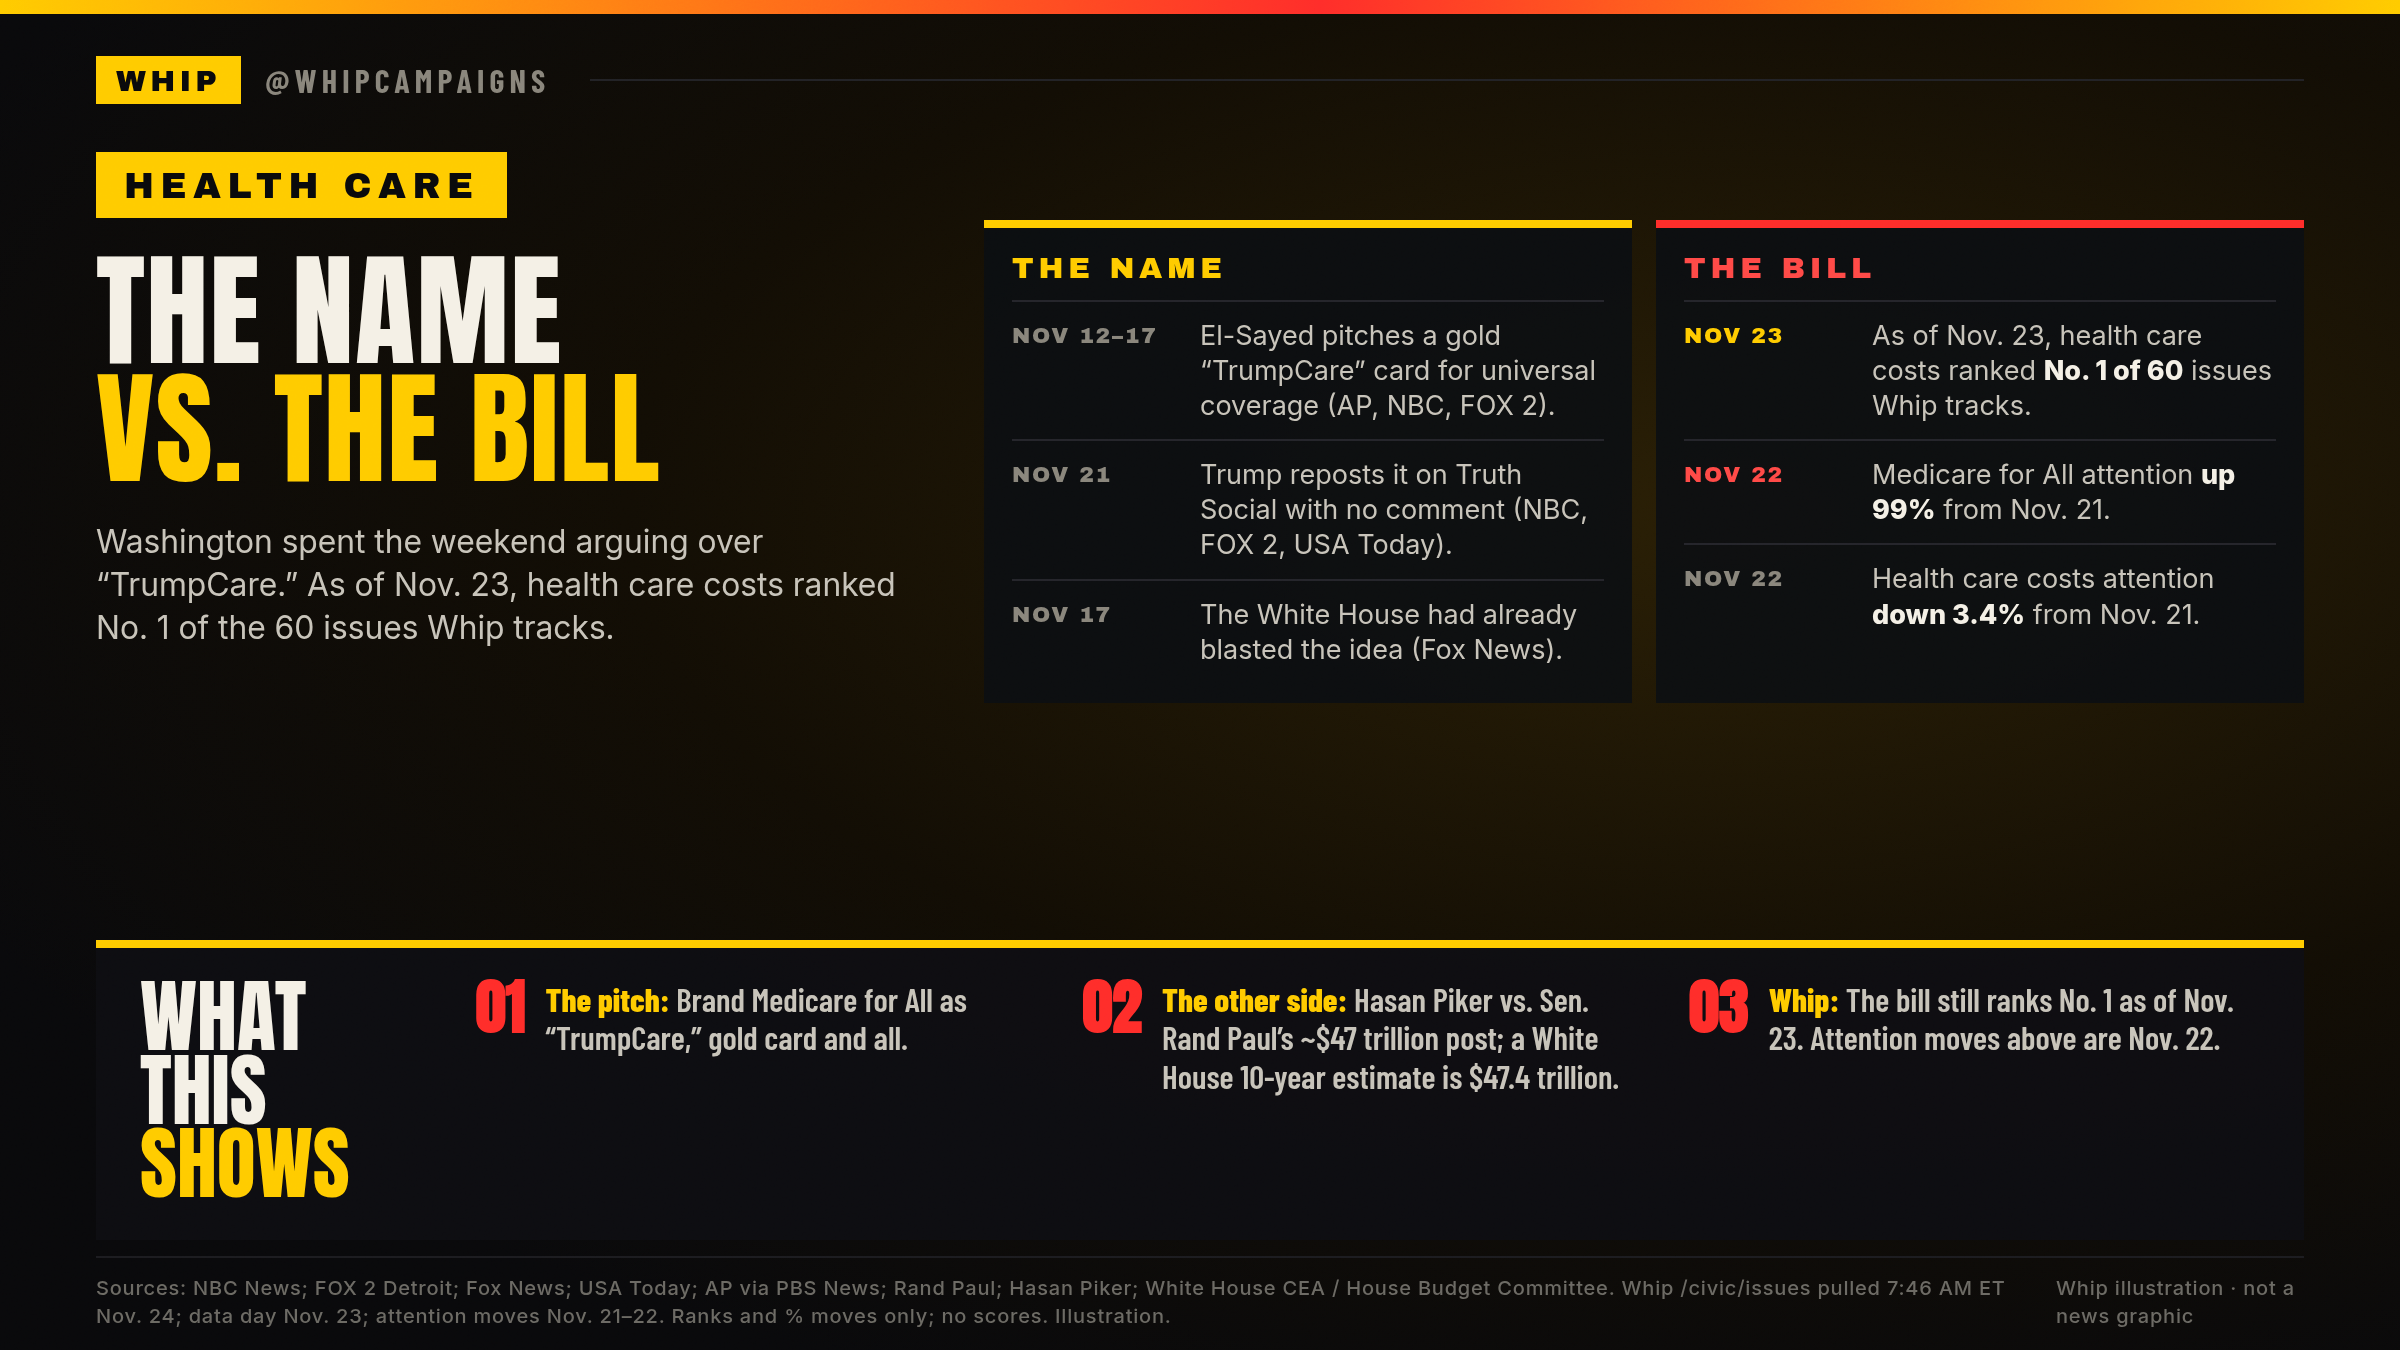
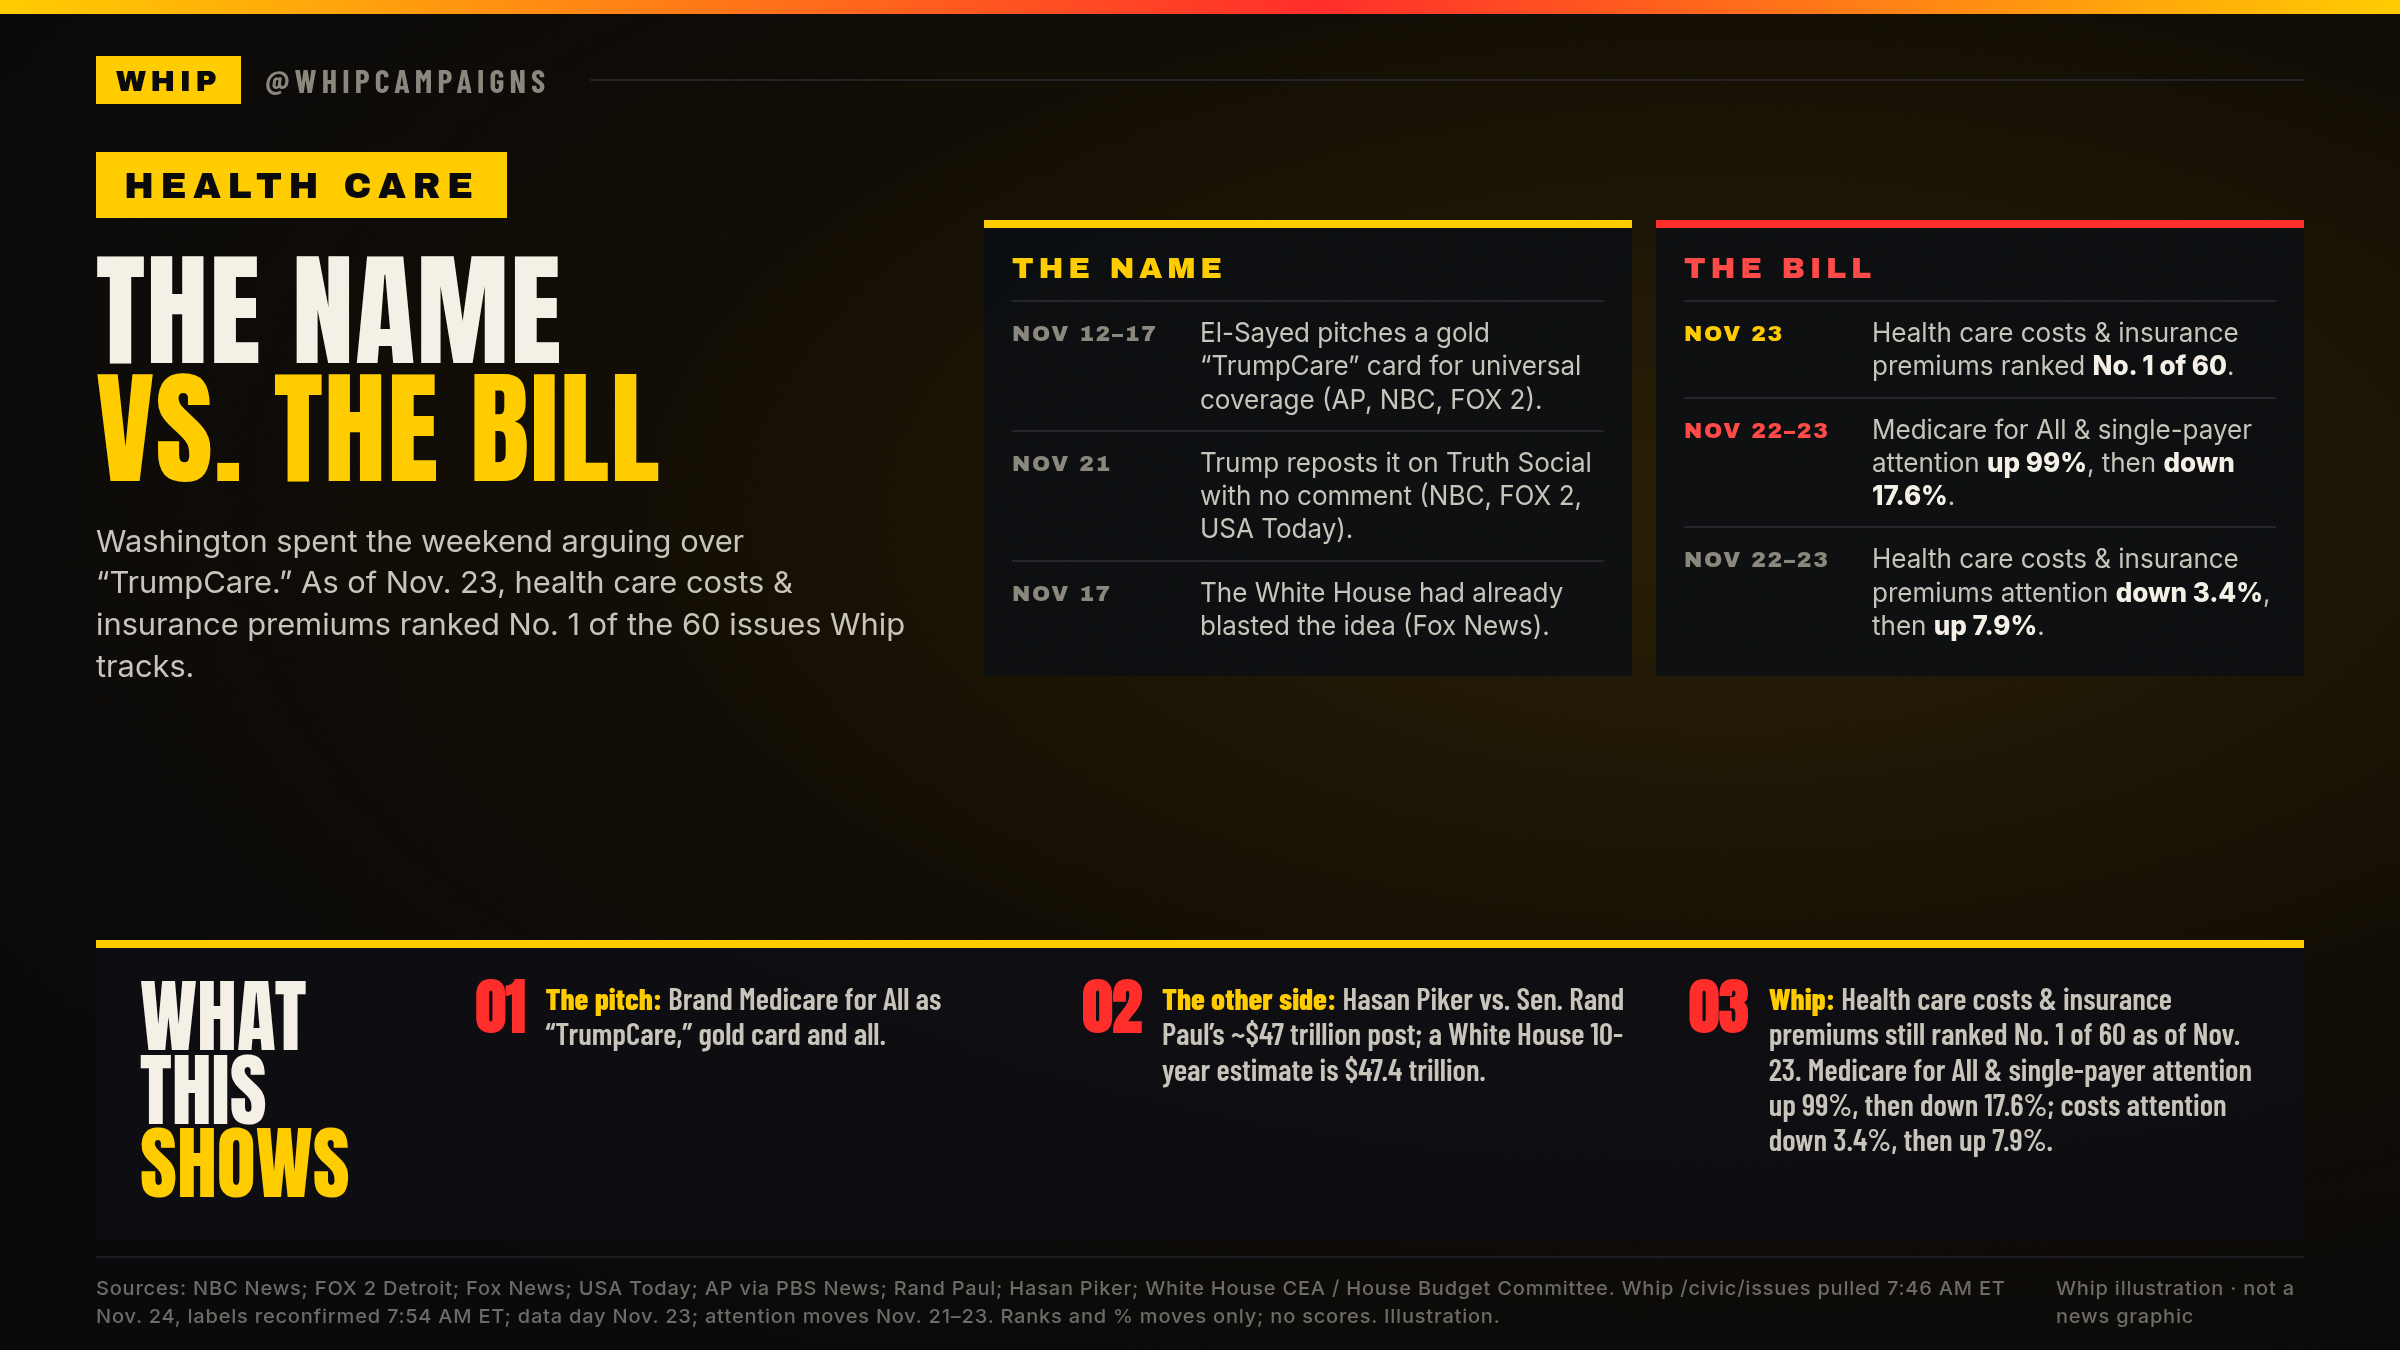
trumpcare-thread: Approver fixes — exact issue labels and Nov 23 moves

diff --git a/breaking/2026-11-24-trumpcare-thread/make_card.py b/breaking/2026-11-24-trumpcare-thread/make_card.py
@@ -1,7 +1,7 @@
 #!/usr/bin/env python3
 """Thread card (post 1): The name vs. the bill — TrumpCare / Medicare for All.
 Tue Nov 24, 2026. Ranks and % moves only; no Whip scores.
-Whip /civic/issues pulled 7:46 AM ET Nov 24; data day Nov 23; attention moves are Nov 21 to Nov 22.
+Whip /civic/issues pulled 7:46 AM ET Nov 24, labels reconfirmed 7:54 AM ET; data day Nov 23; attention moves Nov 21 to Nov 23.
 Sources: NBC News Nov 21; FOX 2 Detroit Nov 21; Fox News Nov 17; USA Today Nov 23;
 AP via PBS News Nov 13; Rand Paul Nov 22; Hasan Piker Nov 23; White House CEA Oct 2026 /
 House Budget Committee Oct 20. Illustration."""
@@ -14,11 +14,11 @@ NAME = "trumpcare-thread"
 FOLDER = "breaking/2026-11-24-trumpcare-thread"
 RED, YEL, BLU, INK, PAPER, MUTE = "#ff2d2a", "#ffcc00", "#3d8bff", "#09090b", "#f4f0e6", "#8a867c"
 html = wrap(f"""
-<div class="footer"><span>Sources: NBC News; FOX 2 Detroit; Fox News; USA Today; AP via PBS News; Rand Paul; Hasan Piker; White House CEA / House Budget Committee. Whip /civic/issues pulled 7:46 AM ET Nov. 24; data day Nov. 23; attention moves Nov. 21&ndash;22. Ranks and % moves only; no scores. Illustration.</span><span>Whip illustration &middot; not a news graphic</span></div>
+<div class="footer"><span>Sources: NBC News; FOX 2 Detroit; Fox News; USA Today; AP via PBS News; Rand Paul; Hasan Piker; White House CEA / House Budget Committee. Whip /civic/issues pulled 7:46 AM ET Nov. 24, labels reconfirmed 7:54 AM ET; data day Nov. 23; attention moves Nov. 21&ndash;23. Ranks and % moves only; no scores. Illustration.</span><span>Whip illustration &middot; not a news graphic</span></div>
 <div class="tag">HEALTH CARE</div>
 <div class="left">
   <div class="h1">THE NAME<br><span class="y">VS. THE BILL</span></div>
-  <div class="att">Washington spent the weekend arguing over &ldquo;TrumpCare.&rdquo; As of Nov. 23, health care costs ranked No. 1 of the 60 issues Whip tracks.</div>
+  <div class="att">Washington spent the weekend arguing over &ldquo;TrumpCare.&rdquo; As of Nov. 23, health care costs &amp; insurance premiums ranked No. 1 of the 60 issues Whip tracks.</div>
 </div>
 <div class="panel">
   <div class="cols">
@@ -30,9 +30,9 @@ html = wrap(f"""
     </div>
     <div class="box bill">
       <div class="bh">THE BILL</div>
-      <div class="row"><div class="k yel">NOV 23</div><div>As of Nov. 23, health care costs ranked <b>No. 1 of 60</b> issues Whip tracks.</div></div>
-      <div class="row"><div class="k red">NOV 22</div><div>Medicare for All attention <b>up 99%</b> from Nov. 21.</div></div>
-      <div class="row"><div class="k">NOV 22</div><div>Health care costs attention <b>down 3.4%</b> from Nov. 21.</div></div>
+      <div class="row"><div class="k yel">NOV 23</div><div>Health care costs &amp; insurance premiums ranked <b>No. 1 of 60</b>.</div></div>
+      <div class="row"><div class="k red">NOV 22&ndash;23</div><div>Medicare for All &amp; single-payer attention <b>up 99%</b>, then <b>down 17.6%</b>.</div></div>
+      <div class="row"><div class="k">NOV 22&ndash;23</div><div>Health care costs &amp; insurance premiums attention <b>down 3.4%</b>, then <b>up 7.9%</b>.</div></div>
     </div>
   </div>
 </div>
@@ -40,14 +40,14 @@ html = wrap(f"""
   <div class="wt">WHAT THIS<br><span class="y">SHOWS</span></div>
   <div class="b"><div class="n">01</div><div><b>The pitch:</b> Brand Medicare for All as &ldquo;TrumpCare,&rdquo; gold card and all.</div></div>
   <div class="b"><div class="n">02</div><div><b>The other side:</b> Hasan Piker vs. Sen. Rand Paul&rsquo;s ~$47 trillion post; a White House 10-year estimate is $47.4 trillion.</div></div>
-  <div class="b"><div class="n">03</div><div><b>Whip:</b> The bill still ranks No. 1 as of Nov. 23. Attention moves above are Nov. 22.</div></div>
+  <div class="b"><div class="n">03</div><div><b>Whip:</b> Health care costs &amp; insurance premiums still ranked No. 1 of 60 as of Nov. 23. Medicare for All &amp; single-payer attention up 99%, then down 17.6%; costs attention down 3.4%, then up 7.9%.</div></div>
 </div>
 """, """
 body{background:radial-gradient(ellipse at 72% 38%,#2a1f05 0%,#120d04 45%,#09090b 80%)}
 .tag{position:absolute;top:76px;left:48px;display:flex;align-items:center;gap:10px;background:#ffcc00;color:#09090b;font-family:'Archivo Black',sans-serif;font-size:18px;letter-spacing:.18em;padding:7px 14px 6px;z-index:5}
 .left{position:absolute;left:48px;top:126px;width:430px;z-index:5}
 .h1{font-family:'Anton',sans-serif;font-size:62px;line-height:.95;color:#f4f0e6;letter-spacing:.01em}
-.att{font-family:'Inter',sans-serif;font-size:16px;line-height:1.35;color:#c8c4ba;margin-top:16px;width:410px}
+.att{font-family:'Inter',sans-serif;font-size:15.5px;line-height:1.35;color:#c8c4ba;margin-top:16px;width:410px}
 .y{color:#ffcc00}
 .panel{position:absolute;right:48px;top:110px;width:660px;z-index:5}
 .cols{display:grid;grid-template-columns:1fr 1fr;gap:12px}
@@ -55,14 +55,14 @@ body{background:radial-gradient(ellipse at 72% 38%,#2a1f05 0%,#120d04 45%,#09090
 .box.bill{border-top-color:#ff2d2a}
 .bh{font-family:'Archivo Black',sans-serif;font-size:15px;letter-spacing:.16em;color:#ffcc00;margin-bottom:8px}
 .box.bill .bh{color:#ff4a47}
-.row{display:grid;grid-template-columns:86px 1fr;gap:8px;padding:8px 0;border-top:1px solid #25252b;font-family:'Inter',sans-serif;font-size:13.5px;line-height:1.3;color:#c8c4ba}
+.row{display:grid;grid-template-columns:86px 1fr;gap:8px;padding:7px 0;border-top:1px solid #25252b;font-family:'Inter',sans-serif;font-size:13px;line-height:1.28;color:#c8c4ba}
 .k{font-family:'Archivo Black',sans-serif;font-size:11px;letter-spacing:.08em;color:#8a867c;padding-top:2px}
 .k.yel{color:#ffcc00}
 .k.red{color:#ff4a47}
 .row b{color:#f4f0e6;font-weight:800}
 .strip{position:absolute;left:48px;right:48px;top:470px;height:150px;z-index:5;background:rgba(14,14,18,.94);border-top:4px solid #ffcc00;display:grid;grid-template-columns:150px 1fr 1fr 1fr;gap:18px;padding:16px 22px}
 .wt{font-family:'Anton',sans-serif;font-size:40px;line-height:.92;color:#f4f0e6}
-.b{display:flex;gap:10px;font-weight:600;font-size:16.5px;line-height:1.16;color:#c8c4ba}
+.b{display:flex;gap:10px;font-weight:600;font-size:15.5px;line-height:1.14;color:#c8c4ba}
 .b b{color:#ffcc00;font-weight:800}
 .n{font-family:'Anton',sans-serif;font-size:30px;line-height:.9;color:#ff2d2a}
 .footer{align-items:flex-start;bottom:10px;font-size:10px;line-height:1.4;padding-top:8px}

diff --git a/breaking/2026-11-24-trumpcare-thread/tweet.md b/breaking/2026-11-24-trumpcare-thread/tweet.md
@@ -4,16 +4,18 @@ Draft only. Not posted or scheduled. For Approver, then Alex. Card goes on post 
 
 Target: @whipcampaigns 4-post morning thread (standalones via Buffer after clearance and Alex's OK). Do not post from this file.
 
+Approver fixes applied Nov 24. Post 4 uses "It" because "That issue" was 281 characters.
+
 Alt text:
 
-Whip illustration, not a news graphic. Headline: The name vs. the bill. Washington spent the weekend arguing over "TrumpCare." As of Nov. 23, health care costs ranked No. 1 of the 60 issues Whip tracks. Left column, the name: El-Sayed pitches a gold "TrumpCare" card for universal coverage (Nov. 12-17); Trump reposts it on Truth Social with no comment (Nov. 21); the White House had already blasted the idea (Nov. 17). Right column, the bill: health care costs ranked No. 1 of 60 as of Nov. 23; Medicare for All online attention up 99% on Nov. 22; health care costs attention down 3.4% on Nov. 22. Bottom strip: the pitch, the other side (Hasan Piker vs. Sen. Rand Paul's ~$47 trillion post; a White House 10-year estimate is $47.4 trillion), and Whip ranks and percent moves only, no scores.
+Whip illustration, not a news graphic. Headline: The name vs. the bill. Washington spent the weekend arguing over "TrumpCare." As of Nov. 23, health care costs & insurance premiums ranked No. 1 of the 60 issues Whip tracks. Left column, the name: El-Sayed pitches a gold "TrumpCare" card for universal coverage (Nov. 12-17); Trump reposts it on Truth Social with no comment (Nov. 21); the White House had already blasted the idea (Nov. 17). Right column, the bill: health care costs & insurance premiums ranked No. 1 of 60 as of Nov. 23; Medicare for All & single-payer online attention up 99% on Nov. 22, then down 17.6% on Nov. 23; health care costs & insurance premiums attention down 3.4% on Nov. 22, then up 7.9% on Nov. 23. Bottom strip: the pitch, the other side (Hasan Piker vs. Sen. Rand Paul's ~$47 trillion post; a White House 10-year estimate is $47.4 trillion), and Whip ranks and percent moves only, no scores, including the Nov. 23 moves.
 
-## 1 / 4 — 165 characters
+## 1 / 4 — 186 characters
 
 ```
 Washington spent the weekend arguing over a name: "TrumpCare."
 
-As of Nov. 23, health care costs ranked No. 1 of the 60 issues Whip tracks — the bill, not the brand.
+As of Nov. 23, health care costs & insurance premiums ranked No. 1 of the 60 issues Whip tracks — the bill, not the brand.
 ```
 
 ## 2 / 4 — 212 characters
@@ -24,20 +26,20 @@ The pitch: Michigan Sen.-elect Abdul El-Sayed proposed branding universal covera
 The White House had already blasted the idea.
 ```
 
-## 3 / 4 — 247 characters
+## 3 / 4 — 245 characters
 
 ```
-The other side: Hasan Piker called it "awesome" that Trump keeps "promoting it to his base." Sen. Rand Paul posted that Medicare for All would cost taxpayers ~$47 trillion.
+The reaction: Hasan Piker called it "awesome" that Trump keeps "promoting it to his base." Sen. Rand Paul posted that Medicare for All would cost taxpayers ~$47 trillion.
 
 A White House estimate puts the 10-year deficit impact at $47.4 trillion.
 ```
 
-## 4 / 4 — 224 characters
+## 4 / 4 — 273 characters
 
 ```
-Per Whip, online attention to Medicare for All nearly doubled on Nov. 22, up 99%. Attention to health care costs slipped 3.4%.
+Per Whip, online attention to Medicare for All & single-payer nearly doubled on Nov. 22, up 99%, then fell 17.6% on Nov. 23. Attention to health care costs & insurance premiums dipped 3.4%, then rose 7.9%.
 
-As of Nov. 23, health care costs still ranked No. 1 of 60 issues.
+It still ranked No. 1 of 60 issues.
 
 Are you ahead or catching up?
 ```
@@ -55,4 +57,4 @@ Are you ahead or catching up?
 - White House CEA, October 2026, "The Real Cost of Socialism in America": https://www.whitehouse.gov/wp-content/uploads/2026/10/The-Real-Cost-of-Socialism-In-America-Report.pdf
 - House Budget Committee, Oct. 20, 2026: https://budget.house.gov/press-release/exposing-the-true-cost-of-medicare-for-all
 - 2paragraphs recap of Paul's post, Nov. 22: https://2paragraphs.com/2026/11/rand-paul-medicare-for-all-not-free-costs-taxpayers-47-trillion-jayapal-not-out-of-reach/
-- Whip /civic/issues live pull: 2026-11-24 07:46:18 ET (America/New_York), https://api.whipcampaigns.com/civic/issues , data day 2026-11-23, pollsValidAt 2026-11-16
+- Whip /civic/issues live pull: 2026-11-24 07:46:18 ET (America/New_York), labels reconfirmed 2026-11-24 07:54:01 ET, https://api.whipcampaigns.com/civic/issues , data day 2026-11-23, pollsValidAt 2026-11-16. Exact labels: "Health care costs & insurance premiums"; "Medicare for All & single-payer".
